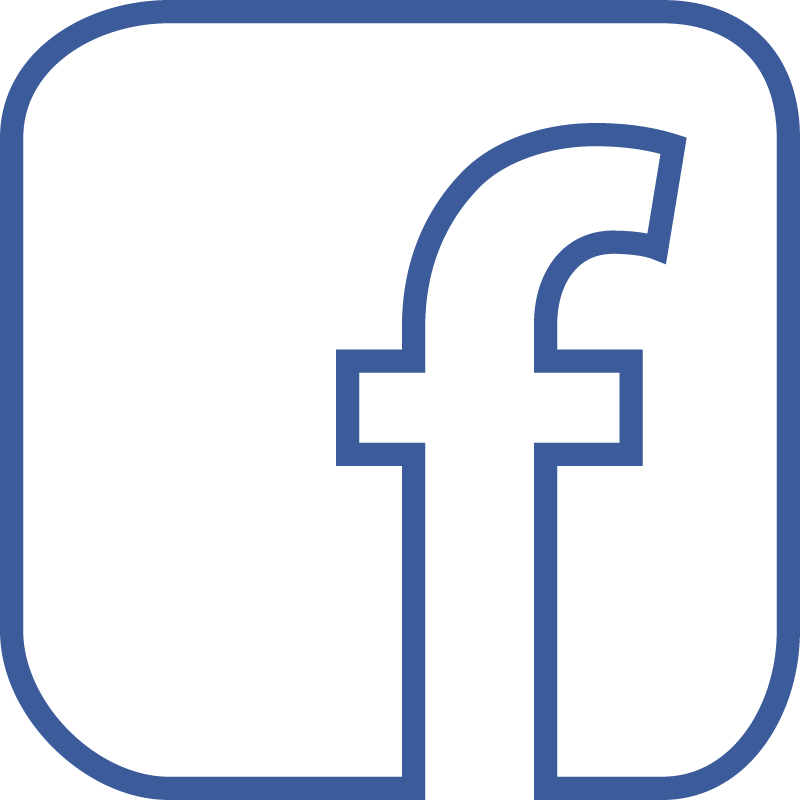
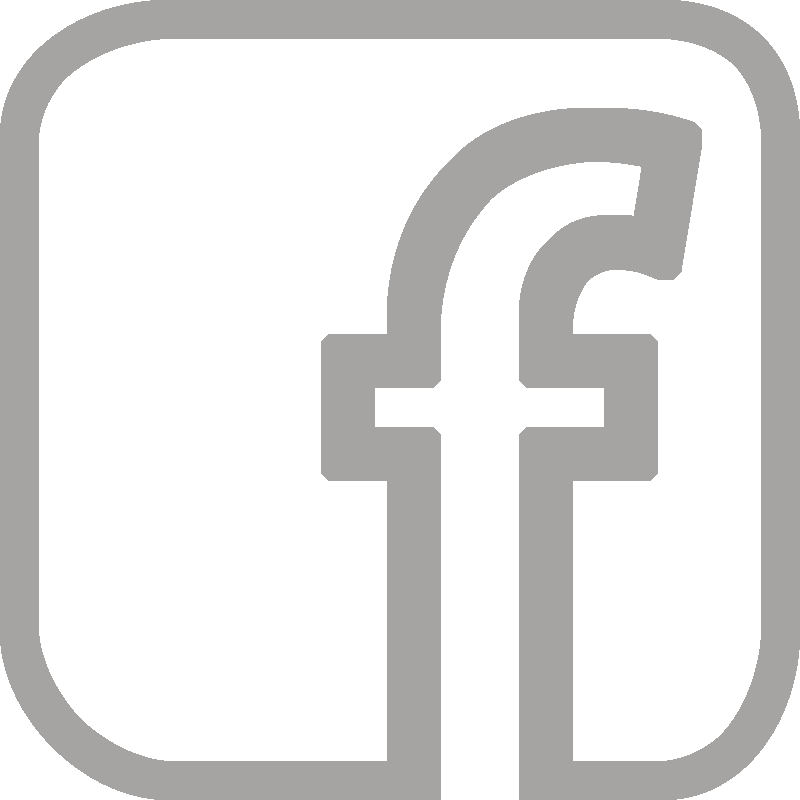
Adding images, the start of the about page and styling is ready to be mixed and matched so to speak. Less is so good for this.

diff --git a/css/index.css b/css/index.css
@@ -37,14 +37,27 @@
   background-color: #978675;
   margin: 20px;
   padding: 5px;
+  border-radius: 10px;
 }
 #mainTitleSection {
+  display: flex;
+  justify-content: space-around;
   border-bottom: 2px dotted #D4D4D4;
-  width: ;
   background-color: #975D41;
   height: 50px;
   padding-top: 1px;
   padding-bottom: 20px;
+}
+#mainTitleSection button {
+  height: 60px;
+  background-color: #532516;
+  border: 2px solid #A5A4A2;
+  padding: 0 30px;
+  margin-top: 5px;
+  border-radius: 13px;
+  font-size: 1.2em;
+  font-weight: bold;
+  color: #D4D4D4;
 }
 footer {
   display: flex;
@@ -54,7 +67,7 @@ footer {
   height: 100px;
 }
 footer img {
-  width: 70px;
-  height: 70px;
-  margin: 10px 50px 0 50px;
+  width: 50px;
+  height: 50px;
+  margin: 20px 30px 0 30px;
 }

diff --git a/js/footer.js b/js/footer.js
@@ -4,13 +4,14 @@ class Footer {
 		this.footer = footer;
 
 
-		const images = ['img/twitter.png', 'img/instagram.png', 'img/facebook.png']
+		const imagesLight = ['img/twitter.png', 'img/instagram.png', 'img/facebook.png'];
+		const imagesBrown = ['img/twitter-brown.png', 'img/instagram-brown.png', 'img/facebook-brown.png'];
+		const imagesDark = ['img/twitter-dark.png', 'img/instagram-dark.png', 'img/facebook-dark.png'];
 
 		footer = document.querySelector('footer')
 		
-		images.forEach(function(imgFile){
+		imagesLight.forEach(function(imgFile){
 			const footerImg = document.createElement('img')
-		console.log(footerImg)
 			footerImg.setAttribute('src', imgFile);
 			footer.appendChild(footerImg)
 		})

diff --git a/js/main.js b/js/main.js
@@ -10,9 +10,14 @@ class Main {
 // FIgure out how to insert before. Will come back to. 
 		const titleSection = document.querySelector('#mainTitleSection');
 		const mainTitle = document.createElement('h1');
-// console.log(titleSection)
-		titleSection.appendChild(mainTitle)
 		mainTitle.textContent = 'Your calendar at your fingertips!';
+
+		const signInButton = document.createElement('button')
+		signInButton.textContent = 'Sign In Here';
+
+		titleSection.appendChild(mainTitle)
+		titleSection.appendChild(signInButton)
+console.log(titleSection)		
 	}
 }
 
@@ -68,6 +73,4 @@ const sixthToken = new Token({
 	secH2: 'Another',
 	text: 'A long winded explanation of nothing.'
 });
-
-
 

diff --git a/less/main.less b/less/main.less
@@ -15,14 +15,29 @@
 		background-color: @section-background;
 		margin: 20px;
 		padding: 5px;
+		border-radius: 10px;
 	}
 }
 
 #mainTitleSection {
+		display: flex;
+		justify-content: space-around;
 		border-bottom: 2px dotted @header-border-bottom;
-		width: ;
 		background-color: @main-background-color;
 		height: 50px;
 		padding-top: 1px;
 		padding-bottom: 20px;
+
+		button {
+			height: 60px;
+			background-color: @button-color;
+			border: 2px solid @button-border;
+			padding: 0 30px;
+			margin-top: 5px;
+			border-radius: 13px;
+
+			font-size: 1.2em;
+			font-weight: bold;
+			color: @button-font-color;
+		}
 	}

diff --git a/about.html b/about.html
@@ -3,8 +3,23 @@
 <head>
 	<meta charset="UTF-8">
 	<title>Document</title>
+	<link rel="stylesheet" href="css/index.css">
 </head>
 <body>
-	
+	<header>
+		<!-- Naviagation and title -->
+	</header>
+	<div id="mainTitleSection">
+		<!-- Your calendar at your fingertips -->
+	</div>
+	<main>
+		<!-- Main section, contains reminder ideas that would seem to be most common -->
+	</main>
+	<footer>
+		<!-- Footer is what footer does -->
+	</footer>
+	<script src="js/header.js"></script>
+	<script src="js/main.js"></script>
+	<script src="js/footer.js"></script>
 </body>
 </html>

diff --git a/less/variables.less b/less/variables.less
@@ -15,5 +15,10 @@
 @header-background: @redish-brown;
 @footer-background: @redish-brown;
 @footer-top-border: @dark;
-@button-color: ;
+
 @section-background: @grey-beige;
+
+// Sign in button
+@button-color: @redish-brown;
+@button-border: @lighter-gray;
+@button-font-color: @almost-white;

diff --git a/less/footer.less b/less/footer.less
@@ -6,8 +6,8 @@ footer {
 	height: 100px;
 
 	img {
-		width: 70px;
-		height: 70px;
-		margin: 10px 50px 0 50px;
+		width: 50px;
+		height: 50px;
+		margin: 20px 30px 0 30px;
 	}
 }
